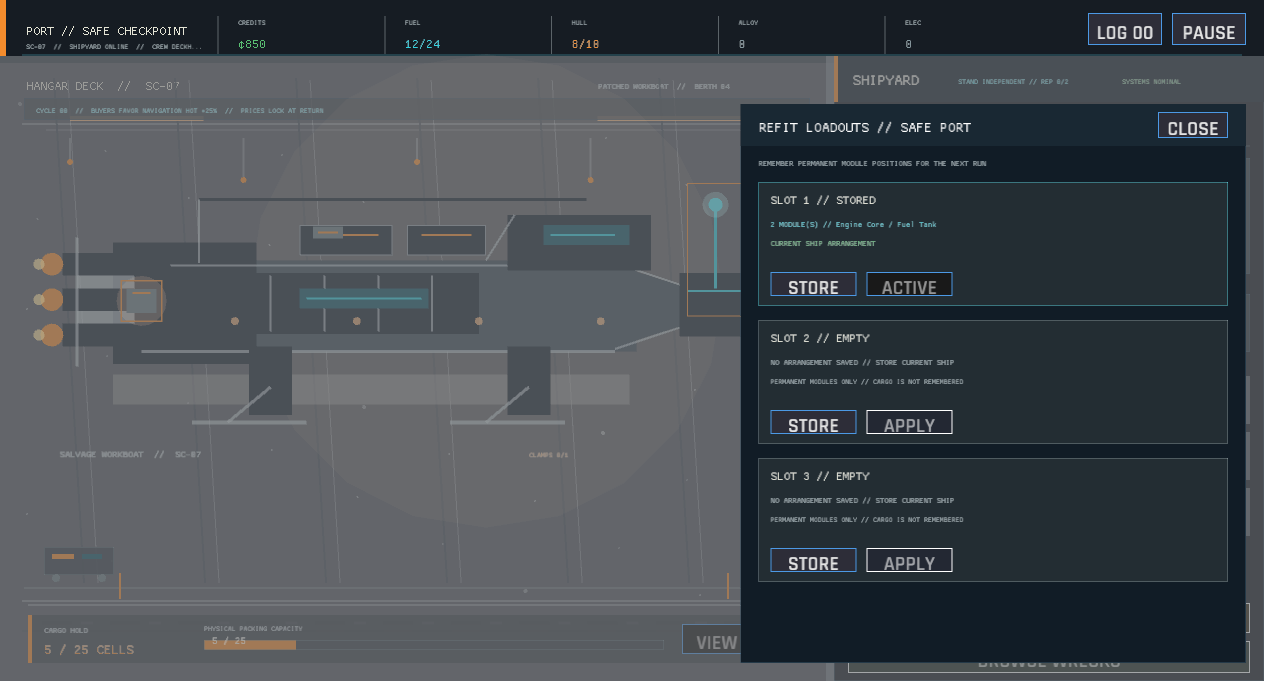
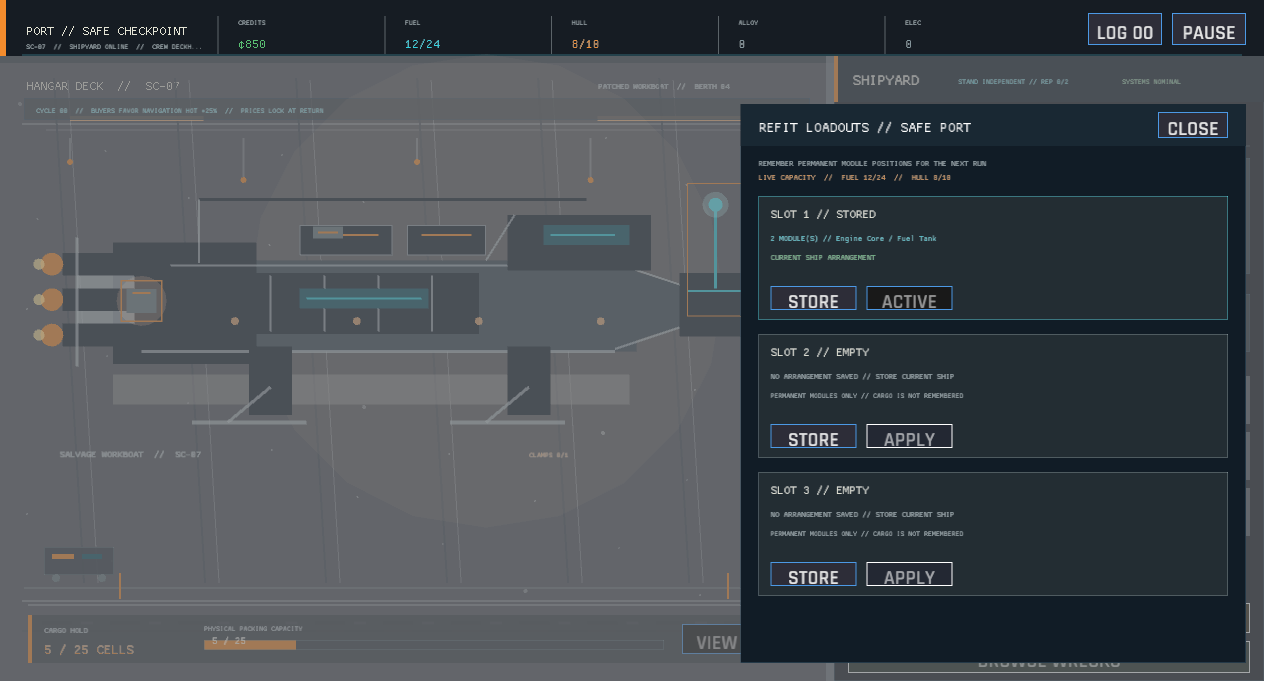
The refit board shows what the hull can carry (loadout capacity telemetry)
The safe-port loadout panel now keeps the live fuel and hull ceilings beside the remembered arrangements, so an incoming captain can see the capacity guard before applying a slot. Added a focused presentation test for the telemetry label and refreshed the verification capture.

Changed region(s): [[0.5862, 0.2467, 0.9565, 0.5859], [0.5862, 0.6167, 0.9565, 0.8634]]

diff --git a/src/ui/loadout_panel/tests.rs b/src/ui/loadout_panel/tests.rs
@@ -1,4 +1,6 @@
 use super::*;
+use crate::data::GameData;
+use crate::state::GameSession;
 
 #[test]
 fn slot_title_reports_empty_and_stored_states() {
@@ -11,5 +13,58 @@ fn slot_title_reports_empty_and_stored_states() {
             })
         ),
         "SLOT 3 // STORED"
+    );
+}
+
+#[test]
+fn capacity_label_explains_the_live_refit_limits() {
+    let data = GameData::load().expect("game data");
+    let session = GameSession::new(&data);
+    let virtual_ui = VirtualUi::from_screen_size(1280.0, 720.0, 1280.0, 720.0);
+    let context = UiContext {
+        data: &data,
+        session: &session,
+        state: GameState::Port,
+        resume_state: GameState::Port,
+        dragged_item: None,
+        message: "",
+        save_exists: false,
+        settings_open: false,
+        fullscreen: false,
+        reduced_motion: false,
+        interaction_enabled: false,
+        pointer: Pointer::default(),
+        pointer_started: false,
+        ui: &virtual_ui,
+        viewport_width: 1280.0,
+        viewport_height: 720.0,
+        travel_elapsed: 0.0,
+        return_elapsed: 0.0,
+        workspace_elapsed: 0.0,
+        workspace_camera_shift: 0.0,
+        workspace_arrival_flash: 0.0,
+        workspace_log_open: false,
+        workspace_scanned: false,
+        workspace_scan_progress: 0.0,
+        workspace_selected_target: None,
+        workspace_extraction_target: None,
+        workspace_extraction_progress: 0.0,
+        workspace_extraction_phase: None,
+        workspace_risk: None,
+        workspace_notice: "",
+        workspace_notice_warning: false,
+        workspace_notice_timer: 0.0,
+        port_selected_module: None,
+        voyage_plan: VoyagePlan::Standard,
+        port_hold_expanded: false,
+        port_loadouts_open: true,
+        voyage_archive_open: false,
+        voyage_archive_offset: 0,
+        voyage_archive_filter: voyage_archive::ArchiveFilter::All,
+    };
+
+    assert_eq!(
+        capacity_label(&context),
+        "LIVE CAPACITY  //  FUEL 12/24  //  HULL 8/10"
     );
 }

diff --git a/src/ui/loadout_panel.rs b/src/ui/loadout_panel.rs
@@ -48,6 +48,13 @@ pub fn draw_port_loadouts(ctx: &UiContext<'_>, actions: &mut Vec<UiAction>) {
         10.0,
         visual_theme::text_dim(),
     );
+    draw_text(
+        &capacity_label(ctx),
+        frame.x + 18.0,
+        frame.y + 76.0,
+        10.0,
+        visual_theme::amber(),
+    );
     let close = Rect::new(frame.right() - 88.0, frame.y + 8.0, 70.0, 26.0);
     if button(ctx, close, "CLOSE", true, ButtonTone::Secondary) {
         actions.push(UiAction::ToggleLoadoutPanel);
@@ -57,7 +64,7 @@ pub fn draw_port_loadouts(ctx: &UiContext<'_>, actions: &mut Vec<UiAction>) {
     for slot in 0..loadout::SLOT_COUNT {
         let card = Rect::new(
             frame.x + 18.0,
-            frame.y + 78.0 + slot as f32 * 138.0,
+            frame.y + 92.0 + slot as f32 * 138.0,
             card_width,
             124.0,
         );
@@ -177,4 +184,14 @@ fn module_summary(ctx: &UiContext<'_>, preset: &LoadoutPreset) -> String {
         })
         .collect::<Vec<_>>()
         .join(" / ")
+}
+
+fn capacity_label(ctx: &UiContext<'_>) -> String {
+    format!(
+        "LIVE CAPACITY  //  FUEL {}/{}  //  HULL {}/{}",
+        ctx.session.economy.fuel,
+        ctx.session.max_fuel(ctx.data),
+        ctx.session.hull,
+        ctx.session.max_hull_with_modules(ctx.data),
+    )
 }
